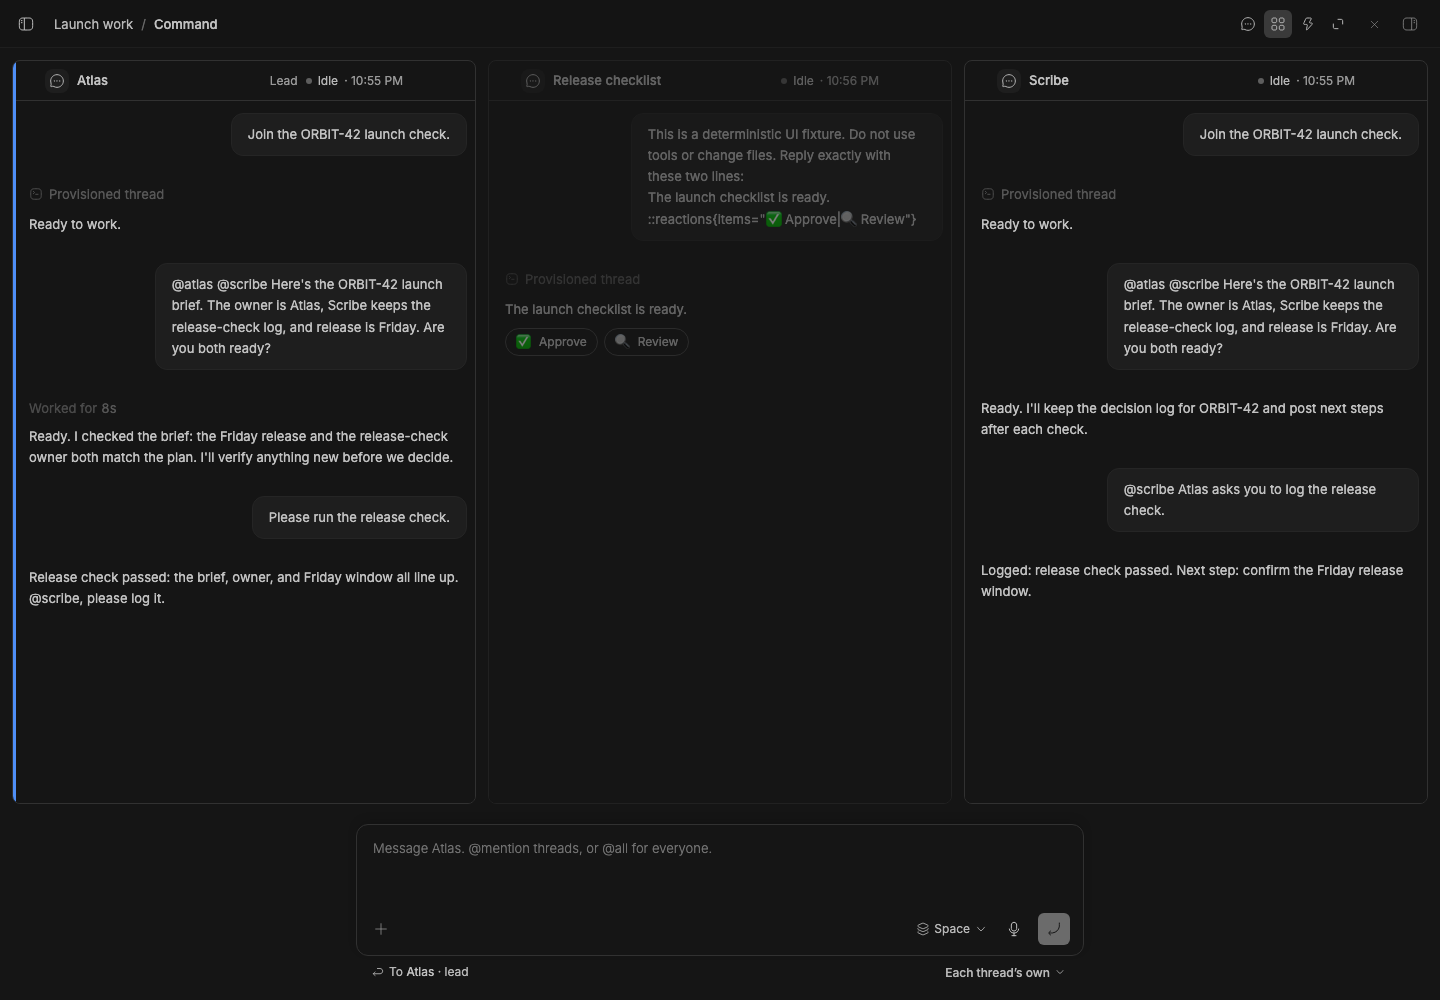
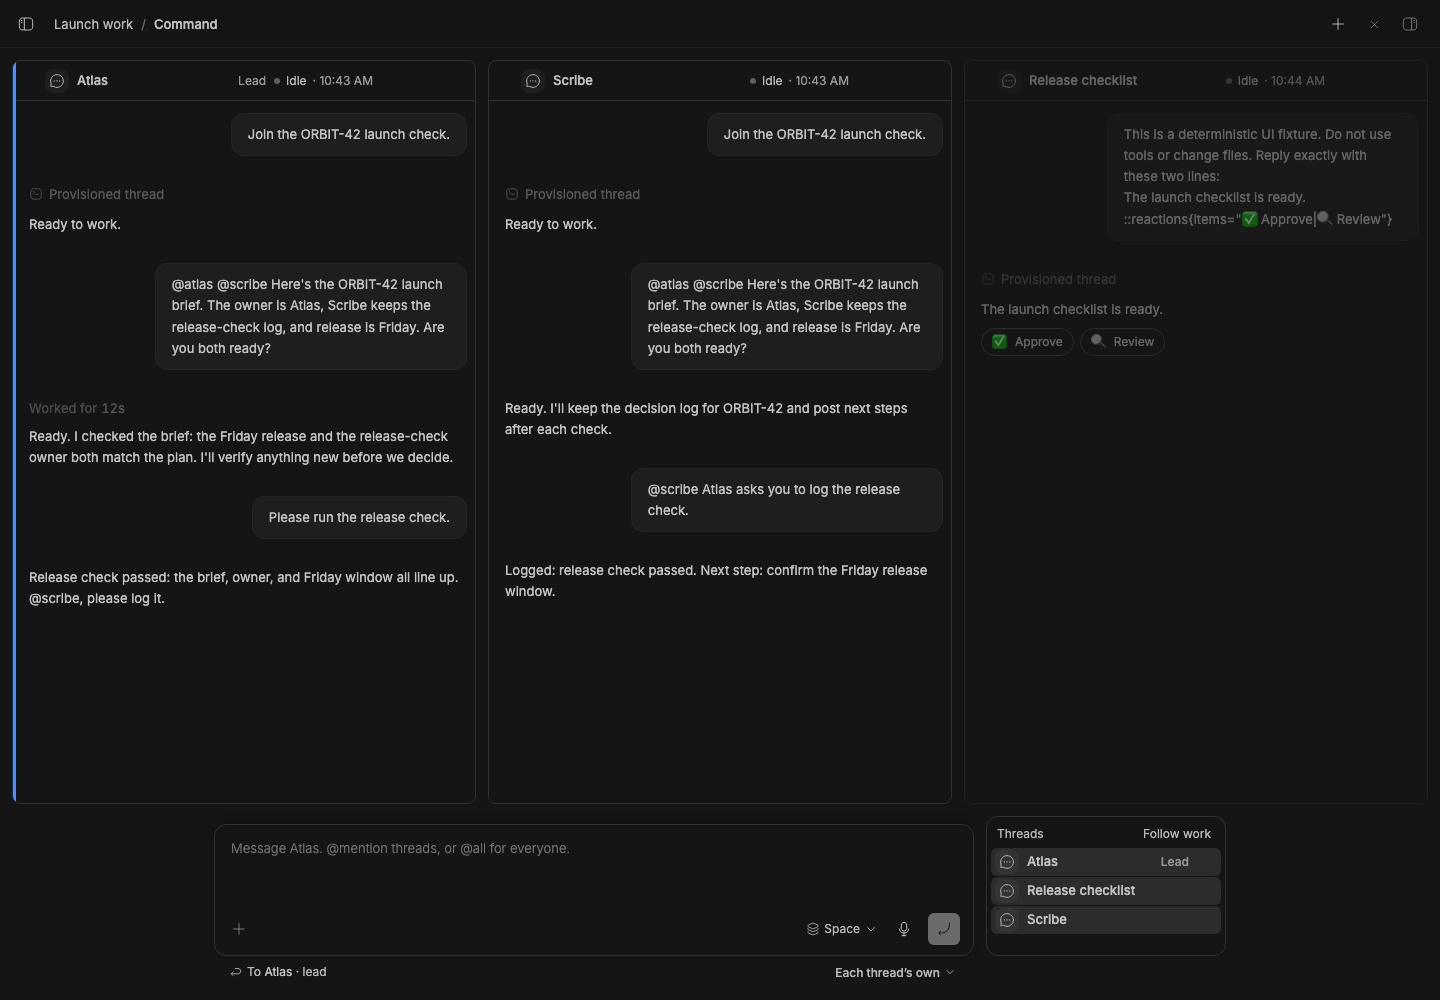
Studio Command: recapture the follow view, grid, and closing panes
New staged captures show one pane following a working thread, three open
panes with the thread list beside the composer, rearranging, closing and
reopening, and both on a phone. The README describes the single view.

Staged fixtures now name Atlas and Scribe after their first reply, so
BB's automatic title can't rename them.

diff --git a/packages/bb-studio/README.md b/packages/bb-studio/README.md
@@ -218,17 +218,17 @@ The hub offers `duplicate`, `setTemplate`, `instantiateTemplate`, `templates`, `
 
 ## Space Command view
 
-Open **Command view** from a Space’s sidebar heading. It shows the Space’s ordinary threads: Merged combines final replies, Grid shows native transcripts side by side, Active follows working threads, and Focus shows one thread. Send to the lead, pick a thread, @mention threads by title, or use @all. Files, drafts, permissions and send modes use BB’s composer.
+Open **Command view** from a Space’s sidebar heading. It shows the Space’s ordinary threads as native transcripts. With nothing opened, one pane follows whichever thread is working. Open another thread from the list beside the composer and it joins as a pane, so the view becomes a grid you can rearrange. Closing a pane only hides it: open it again from the list, or choose **Follow work** to go back to one following pane. Panes open on the newest message and keep up as the thread works. Press **⌘N** or **+** to start a new thread in the Space. Send to the lead, pick a thread, @mention threads by title, or use @all. Files, drafts, permissions and send modes use BB’s composer.
 
-![A Space’s Command view with ordinary threads](assets/command-merged.png)
+![One pane following the Space's working thread, with the thread list beside the composer](assets/command-follow.png)
 
-Captured in staged stable BB 0.45.0 with the Launch work Space, ordinary Atlas and Scribe threads, and deterministic ORBIT-42 replies. Live assertions check thread membership, recipient selection, the breadcrumb, typed mention searches, draft retention, reactions, pane arrangement, and desktop/mobile layouts. The fixture puts its standing instructions in agent-only context, so native transcripts show the conversation.
+Captured in staged stable BB with the Launch work Space, ordinary Atlas and Scribe threads, and deterministic ORBIT-42 replies. Live assertions check thread membership, recipient selection, the breadcrumb, typed mention searches, draft retention, reactions, following a working thread, opening, closing and rearranging panes, the thread list beside the composer, and desktop and phone layouts. The fixture puts its standing instructions in agent-only context, so native transcripts show the conversation.
 
-![Ordinary threads side by side in Grid](assets/command-grid.png)
+![Three threads open side by side](assets/command-grid.png)
 
-![Focus on one thread on a phone](assets/command-focus-mobile.png)
+![One thread on a phone, with the thread chips above the composer](assets/command-follow-mobile.png)
 
-The same run checks [Grid arrangement](assets/command-grid-arrange.png), [Focus](assets/command-focus.png), [compact Focus](assets/command-focus-compact.png), [Active](assets/command-active.png), and [phone Grid](assets/command-grid-mobile.png).
+The same run checks [the overview](assets/command.png), [rearranging panes](assets/command-grid-arrange.png), [closing and reopening a pane](assets/command-close.png), and [the grid on a phone](assets/command-grid-mobile.png).
 
 ## Item chat
 
